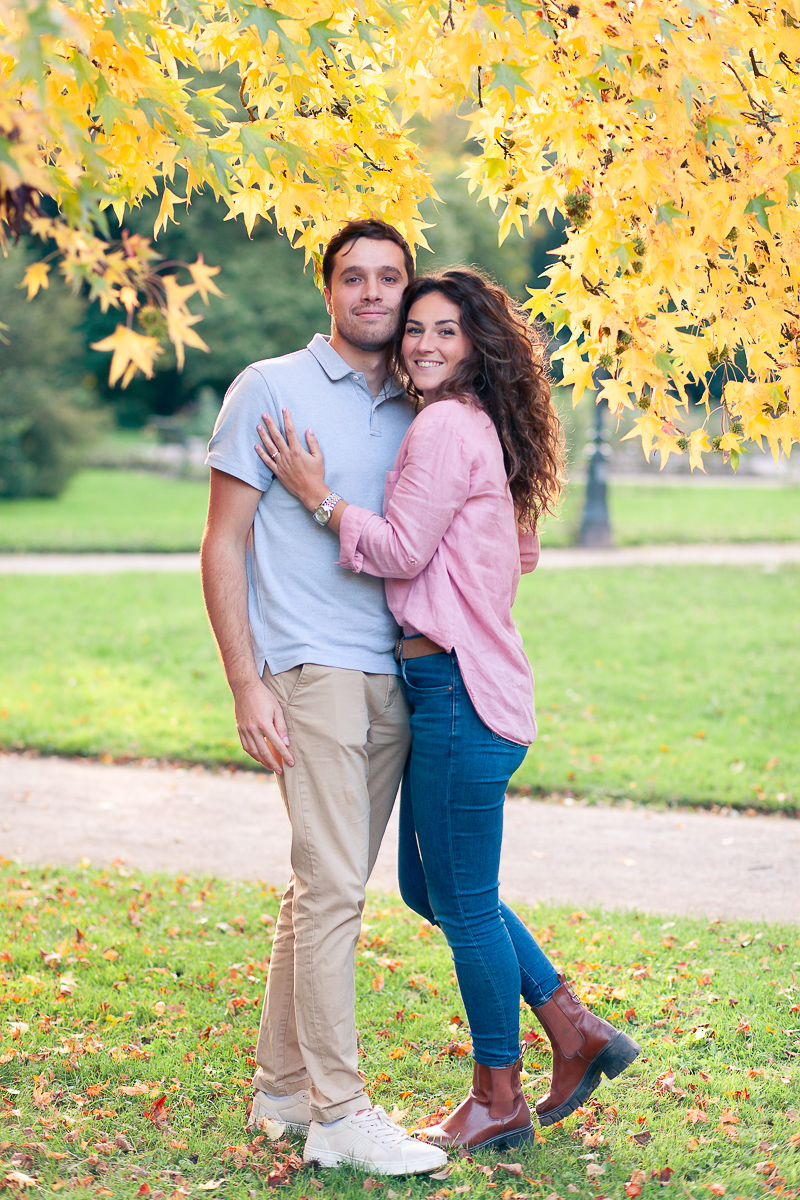
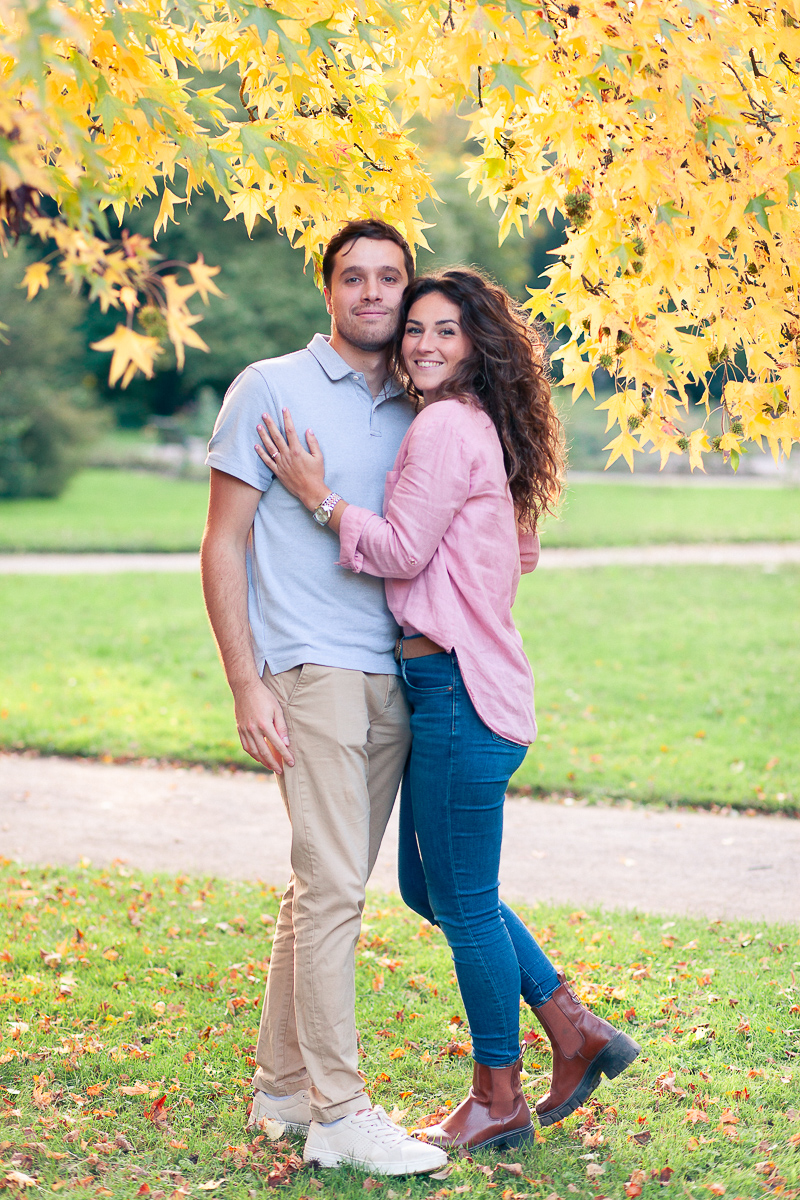
corrections article fiancailles orangerie

Changed region(s): [[0.6875, 0.3083, 0.8438, 0.4625]]

diff --git a/articles/fiancailles-orangerie.html b/articles/fiancailles-orangerie.html
@@ -4,7 +4,7 @@
   <meta charset="UTF-8">
   <meta name="viewport" content="width=device-width, initial-scale=1.0">
   <meta name="description" content="Découvrez une séance photo de fiancailles au parc de l'Orangerie de Strasbourg avec Julie et Adrien. Une journée sublimée par les couleurs de l'automne, pour des souvenirs hors du temps." />
-  <link rel="canonical" href="https://www.lucathis.art/articles/fiancailles-orangerie.html">
+  <link rel="canonical" href="https://www.lucathis.art/articles/fiançailles-orangerie.html">
   <link rel="stylesheet" href="../assets/css/styles.css" />
   <title>Séance photo de fiançailles au parc de l'Orangerie de Strasbourg | Lucas Mathis Art</title>
 </head>
@@ -92,7 +92,6 @@
       <p>Vous préparez votre mariage à Strasbourg ou ailleurs en Alsace ? Je serais heureux d'échanger avec vous sur votre projet et d'imaginer avec vous une séance qui vous ressemble !</p>
       <p><a href="../contact.html">Me contacter</a></p>
     </div>
-
 
   </main>
   <footer>
